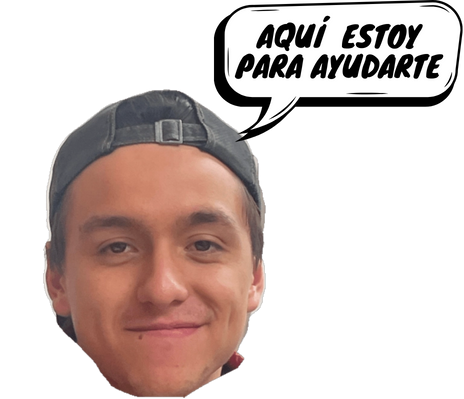
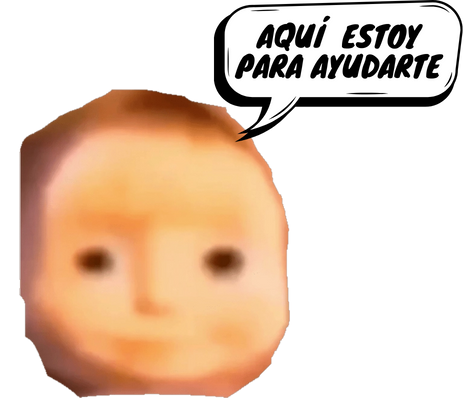
Se modificó un adicional del icono que dirige al chatbot.

diff --git a/src/main/resources/static/menu/stylesGlobal.css b/src/main/resources/static/menu/stylesGlobal.css
@@ -97,24 +97,41 @@ p {
 
 /* ------------------------------------------------------------------------------ */
 .boton-flotante {
-    position: fixed; /* Mantiene el botón en una posición fija en la pantalla */
-    bottom: 20px; /* Espacio desde la parte inferior de la pantalla */
-    right: 20px; /* Espacio desde la izquierda de la pantalla */
-    z-index: 100; /* Asegura que el botón esté por encima de otros elementos */
-  }
-  
-  /* Estilos adicionales para la imagen dentro del enlace, si es necesario */
-  .boton-flotante img {
+    position: fixed;
+    bottom: 20px;
+    right: 20px;
+    z-index: 100;
+    cursor: pointer;
+    /* Cambia el cursor a una mano para indicar que es clickeable */
+}
+
+.boton-flotante img {
     display: block;
-    max-width: 300px; /* o el tamaño que desees */
-    max-height: 300px; /* o el tamaño que desees */
-    transition: transform 0.3s ease; /* Para un efecto suave al pasar el mouse */
-  }
-  
-  .boton-flotante:hover img {
-    transform: scale(1.1); /* Agrandar un poco el botón al pasar el mouse */
-  }
-  
+    max-width: 300px;
+    max-height: 300px;
+    transition: opacity 0.3s ease;
+    /* Transición suave de opacidad */
+    position: absolute;
+    bottom: 0;
+    right: 0;
+}
+
+.boton-flotante .hover {
+    opacity: 0;
+    /* Inicialmente oculta la imagen de hover */
+    position: absolute;
+    /* Asegura que ambas imágenes se alineen correctamente */
+}
+
+.boton-flotante:hover .normal {
+    opacity: 0;
+    /* Oculta la imagen normal al pasar el mouse */
+}
+
+.boton-flotante:hover .hover {
+    opacity: 1;
+    /* Muestra la imagen de hover al pasar el mouse */
+}
 
 /* ------------------------------------------------------------------------------ */
 

diff --git a/src/main/resources/static/menu/menuAdmin.html b/src/main/resources/static/menu/menuAdmin.html
@@ -56,7 +56,8 @@
     </div>
 </div>
 
-<a href="/src/main/resources/static/estudiante/egresos/egresosEst.html" class="boton-flotante">
-    <img src="/src/main/resources/static/menu/FrankBot.png" alt="Canales de Atención">
-  </a>
+<a href="/src/main/resources/static/estudiante/pilotoChatbot/pilotoChatbot.html" class="boton-flotante">
+    <img src="/src/main/resources/static/menu/img/FranzBot.png" alt="Canales de Atención" class="normal">
+    <img src="/src/main/resources/static/menu/img/FrankBot.png" alt="Canales de Atención" class="hover">
+</a>
 <!-- Fin Barra de Navegacion Admin -->

diff --git a/src/main/resources/static/menu/menuEstudiante.html b/src/main/resources/static/menu/menuEstudiante.html
@@ -54,8 +54,9 @@
   </div>
 </div>
   
-<a href="/src/main/resources/static/estudiante/egresos/egresosEst.html" class="boton-flotante">
-  <img src="/src/main/resources/static/menu/img/FrankBot.png" alt="Canales de Atención">
+<a href="/src/main/resources/static/estudiante/pilotoChatbot/pilotoChatbot.html" class="boton-flotante">
+  <img src="/src/main/resources/static/menu/img/FranzBot.png" alt="Canales de Atención" class="normal">
+  <img src="/src/main/resources/static/menu/img/FrankBot.png" alt="Canales de Atención" class="hover">
 </a>
 
 <!-- Barra de Navegacion Estudiante -->
